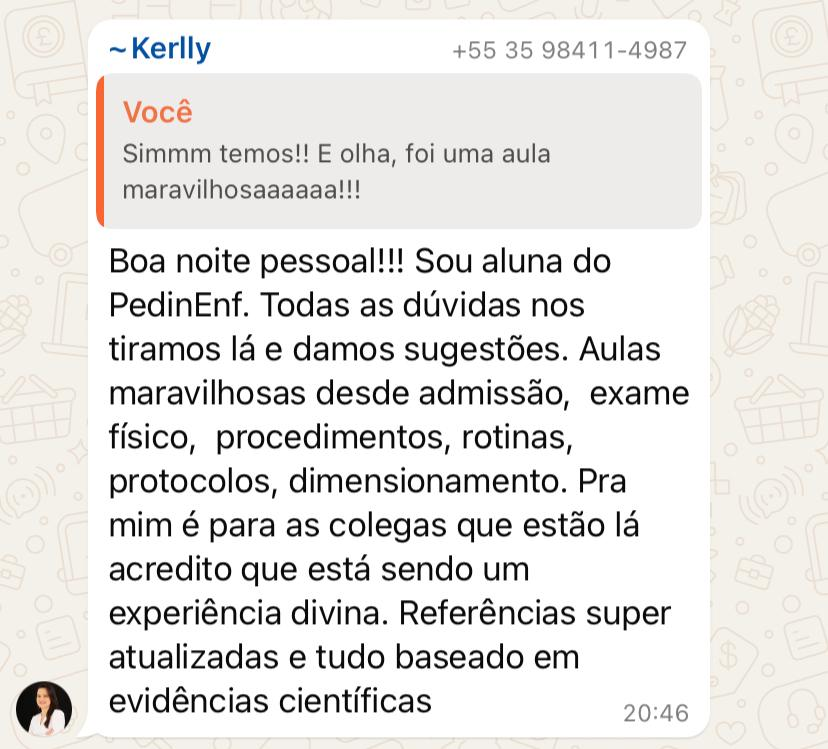
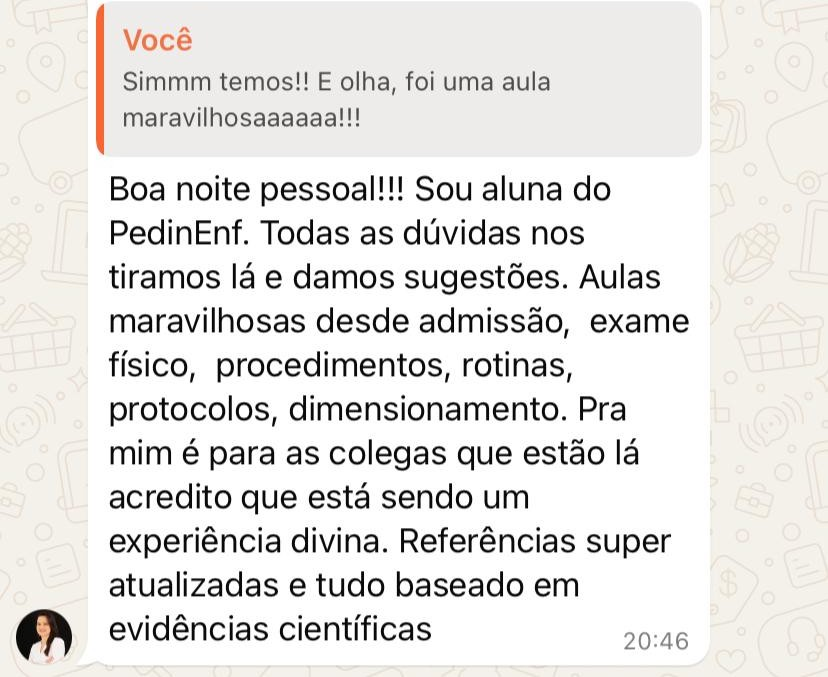
final version

diff --git a/curso-pedin-enf.html b/curso-pedin-enf.html
@@ -146,7 +146,8 @@
       <section class="section section--split" id="conteudos">
         <div class="container">
           <div class="section__head reveal">
-            <h2 class="section__title">Vejam nossos conteúdos INICIAIS já disponíveis para você!</h2>
+            <h2 class="section__title">Confira os principais módulos do PedIn-Enf</h2>
+            <p class="section__subtitle">Estruturado por áreas, com conteúdos diretos ao ponto para consulta e estudo.</p>
           </div>
 
           <!-- Accordion -->

diff --git a/index.html b/index.html
@@ -320,7 +320,7 @@
                 trilharam um caminho para te ajudar.
               </p>
               <p class="card__text">
-                São mais de 100 horas de conteúdos com progressão semanal da plataforma! Não perca a oportunidade de se
+                São mais de 100 horas de conteúdos com progressão mensal da plataforma! Não perca a oportunidade de se
                 destacar no mercado de trabalho e atuar com alta performance na assistência à criança grave!
               </p>
 
